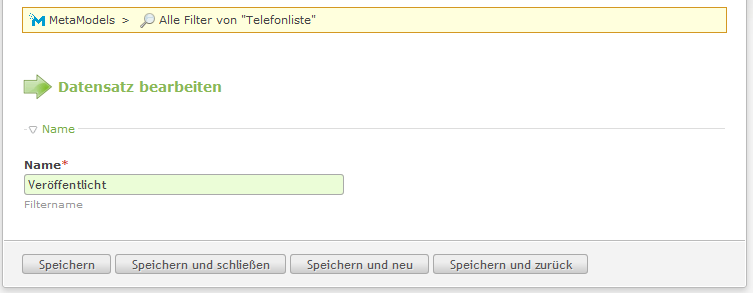
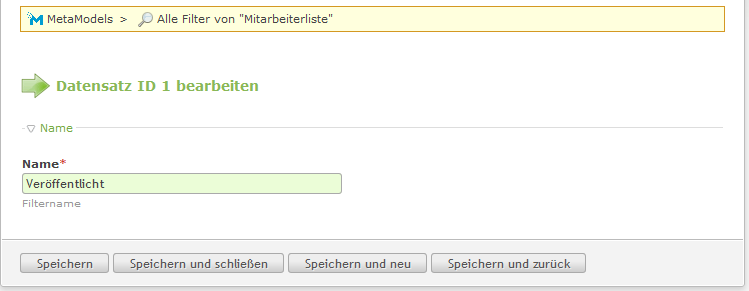
Logischer Fehler - Änderung zu MA-Liste
Telefonliste zu Mitarbeiterliste
alle Bilder neu

Changed region(s): [[0.0, 0.0, 1.0, 0.9897]]

diff --git a/manual/metamodel-first/conclusion.rst b/manual/metamodel-first/conclusion.rst
@@ -7,7 +7,7 @@ Mit dem Aufbau des ersten MetaModels wurden eine einfache Tabelle
 angelegt und dabei die grundlegenden Arbeitsschritte für ein
 MetaModel bearbeitet.
 
-Mit dem MetaModel "Telefonliste" ist die Eingabe im Backend und
+Mit dem MetaModel "Mitarbeiterliste" ist die Eingabe im Backend und
 die Ausgabe im Frontend realisiert. Dies stellt natürlich nur
 einen kleinen Abschnitt der Möglichkeiten von MetaModels dar und
 selbst dieses einfache Beispiel kann weiter ausgebaut werden.
@@ -21,6 +21,20 @@ Folgend eine kleine Aufzählung an Möglichkeiten:
 * im Frontend wäre ebenfalls der Ausbau mit Filterungen,
   Sortierungen und Suchfunktionen möglich
   
-In dem zweiten Beispiel wird eine komplexere Datenstruktur umgesetzt und in
-dem Kapitel "Spezialaufgaben" einzelne Aspekte wie Mehrsprachigkeit, Varianten,
-Kind-Tabellen usw. aufgegriffen.
+Als Anregung die folgenden zwei Screenshots - zum einen vom Backend mit
+einem separaten MetaModel für die Abteilungen (Änderung des Attributes
+"Abteilung" von "Text" auf "Auswahl")
+
+|img_conclusion_01|
+
+sowie eine Ansicht des Frontends mit Filtern und Suche (Mitarbeiter
+aus Abteilung "GF" mit Anfangsbuchstaben "F")
+
+|img_conclusion_02|
+  
+In dem Kapitel :ref:`mm_second_index` wird eine komplexere Datenstruktur
+umgesetzt und in dem Kapitel :ref:`mm_special_index` einzelne Aspekte wie
+Mehrsprachigkeit, Varianten, Kind-Tabellen usw. aufgegriffen.
+
+.. |img_conclusion_01| image:: /_img/screenshots/metamodel_first/conclusion_01.png
+.. |img_conclusion_02| image:: /_img/screenshots/metamodel_first/conclusion_02.png

diff --git a/manual/metamodel-first/new-mm.rst b/manual/metamodel-first/new-mm.rst
@@ -4,17 +4,17 @@
 ===========================
 
 Mit Klick auf das Icon "|img_new| Neues MetaModel" wird die Eingabemaske zum Erstellen
-des neuen MetaModel geöffnet. Im Feld "Name" wird "Telefonliste" und im Feld "Tabellenname"
-wird "mm_telefonliste" eingetragen - siehe Screenshot.
+des neuen MetaModel geöffnet. Im Feld "Name" wird "Mitarbeiterliste" und im Feld "Tabellenname"
+wird "mm_mitarbeiterliste" eingetragen - siehe Screenshot.
 
 |img_new-mm_01|
 
 Nach dem Speichern und Schließen der Eingabemaske gelangt man wieder zur MetaModels-
-Übersicht. Nun sollte das erste MetaModel "Telefonliste" angelegt sein - siehe Screenshot.
+Übersicht. Nun sollte das erste MetaModel "Mitarbeiterliste" angelegt sein - siehe Screenshot.
 
 |img_new-mm_02|
 
-Mit dem Anlegen des MetaModel "Telefonliste" wurde eine Tabelle "mm_telefonliste" in
+Mit dem Anlegen des MetaModel "Mitarbeiterliste" wurde eine Tabelle "mm_mitarbeiterliste" in
 der Datenbank erstellt. Mit den Icons der MetaModel-Komponenten kann die weitere
 Bearbeitung fortgeführt werden. Alle :ref:`component_index` die nicht konfiguriert
 werden müssen, werden ausgelassen bzw. es erfolgt ein entsprechender Hinweis.

diff --git a/manual/metamodel-first/attribute.rst b/manual/metamodel-first/attribute.rst
@@ -3,7 +3,7 @@
 |img_fields| Attribute
 =========================
 
-Nachdem die Tabelle "mm_telefonliste" in der Datenbank erstellt wurde, muss in dieser
+Nachdem die Tabelle "mm_mitarbeiterliste" in der Datenbank erstellt wurde, muss in dieser
 nun die Felder bzw. Tabellenspalten zur Speicherung der Daten erzeugt werden - sprich
 die Attribute. Dieser Schritt erfolgt über die gleichnamige Komponente
 "|img_fields| Attribute".
@@ -24,7 +24,7 @@ Anhand der Aufgabenstellung werden die folgenden Felder benötigt:
 | Veröffentlicht  | published      | Checkbox |
 +-----------------+----------------+----------+
 
-Im ersten Schritt wechselt man in dem MetaModel "Telefonliste" in die Komponente
+Im ersten Schritt wechselt man in dem MetaModel "Mitarbeiterliste" in die Komponente
 "Attribute", in dem auf das Icon |img_fields| geklickt wird. Anschließend kann über
 "|img_new| Neues Attribut" das erste Attribut erstellt werden. Mit dem Klick auf
 "|img_new| Neues Attribut" wird nicht sofort die Eingabemaske geöffnet, sondern

diff --git a/manual/metamodel-first/dca-combine.rst b/manual/metamodel-first/dca-combine.rst
@@ -9,7 +9,7 @@ geschaltet. Eine Freischaltung für eine Frontendausgabe der Rendereinstellung
 ist nicht notwendig.
 
 Zum Aufruf der Ein- / Ausgabe-Optionen wird wieder die Übersicht MetaModels
-aktiviert, so dass der Eintrag der "Telefonliste" zu sehen ist. Nun erfolgt
+aktiviert, so dass der Eintrag der "Mitarbeiterliste" zu sehen ist. Nun erfolgt
 ein Klick auf das Icon "|img_dca_combine| Ein- / Ausgabe-Optionen" und die
 Ansicht wechselt zur Options-Übersicht.
 
@@ -23,7 +23,7 @@ Screenshot.
 
 Nach dem "Speichern und schließen" wechselt die Ansicht zur Übersicht
 der MetaModels - gleichzeitig sollte in der linken Contao-Navigation
-ein neues Icon mit der Beschriftung "Telefonliste" erschienen sein
+ein neues Icon mit der Beschriftung "Mitarbeiterliste" erschienen sein
 (siehe Screenshot).
 
 |img_dca-combine_02|

diff --git a/manual/metamodel-first/rendersettings.rst b/manual/metamodel-first/rendersettings.rst
@@ -4,11 +4,11 @@
 ========================================
 
 In diesem Schritt werden die Rendereinstellungen für das MetaModel
-"Telefonliste" angelegt. Es wird eine Renderingeinstellung für das Backend
+"Mitarbeiterliste" angelegt. Es wird eine Renderingeinstellung für das Backend
 (Dateneingabe) und für das Frontend (Datenausgabe) benötigt.
 
 Zum Aufruf der Rendereinstellungen wird die Übersicht MetaModels aktiviert,
-so dass der Eintrag der "Telefonliste" zu sehen ist. Nun erfolgt ein Klick
+so dass der Eintrag der "Mitarbeiterliste" zu sehen ist. Nun erfolgt ein Klick
 auf das Icon "|img_rendersettings| Rendereinstellungen" und die Ansicht
 wechselt zur Übersicht der Rendereinstellungen - diese ist aktuell noch leer.
 

diff --git a/manual/metamodel-first/dca.rst b/manual/metamodel-first/dca.rst
@@ -4,11 +4,11 @@
 =========================
 
 In diesem Schritt wird die Eingabemasken für das MetaModel
-"Telefonliste" angelegt, über welche die Daten der Attribute in der
+"Mitarbeiterliste" angelegt, über welche die Daten der Attribute in der
 Datenbank gespeichert werden.
 
 Zum Aufruf der Eingabemasken wird wieder die Übersicht MetaModels aktiviert,
-so dass der Eintrag der "Telefonliste" zu sehen ist. Nun erfolgt ein Klick
+so dass der Eintrag der "Mitarbeiterliste" zu sehen ist. Nun erfolgt ein Klick
 auf das Icon "|img_dca| Eingabemasken" und die Ansicht wechselt zur 
 Übersicht der Eingabemasken - diese ist aktuell noch leer.
 

diff --git a/manual/metamodel-first/filter.rst b/manual/metamodel-first/filter.rst
@@ -8,7 +8,7 @@ Optionen der Ausgabe. In unserem Beispiel soll ein Filter angelegt werden,
 der für die Frontendausgabe nur die Einträge mit aktiviertem "Veröffentlicht".
 
 Zum Aufruf der Filter wird wieder die Übersicht MetaModels aktiviert,
-so dass der Eintrag der "Telefonliste" zu sehen ist. Nun erfolgt ein Klick
+so dass der Eintrag der "Mitarbeiterliste" zu sehen ist. Nun erfolgt ein Klick
 auf das Icon "|img_filter| Filter" und die Ansicht wechselt zur 
 Übersicht der Filter - diese ist aktuell noch leer.
 

diff --git a/manual/component/filter.rst b/manual/component/filter.rst
@@ -43,7 +43,7 @@ Filterattribute
 * **Einfache Abfrage**: |br|
   erzeugt eine Filterung nach einem Attribut; für die Filterung
   kann ein URL-Parameter angegeben werden; mit Option "Statischer Parameter"
-  kann in den Inhaltselementen/FR-Modulen aus einer Select-Liste ein Wert
+  kann in den Inhaltselementen/FE-Modulen aus einer Select-Liste ein Wert
   zum Filtern aktiviert werden
 * **Eigenes SQL**: |br|
   eigene SQL-Bedingungen zur Filterung; den |img_about| Hilfe-Assistenten (Popup) beachten
